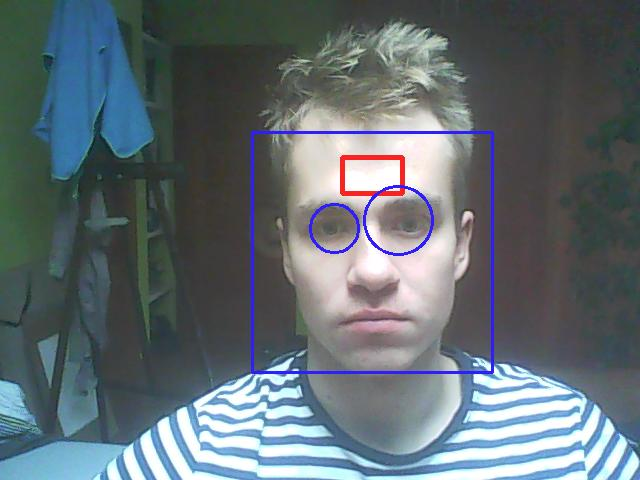
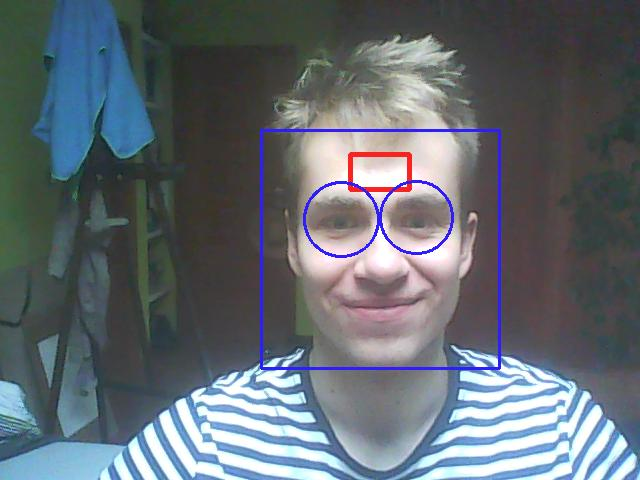
enhanced project description

Changed region(s): [[0.125, 0.0312, 1.0, 1.0], [0.0, 0.8438, 0.0625, 0.9062]]

diff --git a/projects/pavel/index.html b/projects/pavel/index.html
@@ -28,16 +28,41 @@
     <h2>Nápad</h2>
     <p>Hlavní myšlenka, je ta, že by se dala vytvořit aplikace v Pythonu (ideální technologie), která by pomocí webové kamery snímala frekvenci srdečního tepu, případně i frekvenci dýchání. Na taková data by se však dobře dala navázat nějaká interaktivní vizualizace. Dala by se vytvořit i nějaká velkoprostorová vizualizace (SAGE), protože snímat tep jde takto i z více lidí najednou, s jediným problémem snižené přesnosti měření.</p>
 	
-    <h2>Existující řešení</h2>
-    <p><a href="https://github.com/thearn/webcam-pulse-detector">webcam-pulse-detector</a>
+    <h2>Nápady na vizualizaci</h2>
+    <p>
+    V jakých rozmezí se můžou vstupní hodnoty pohybovat (za minutu):
+    <ul>
+        <li>Frekvence srdečního tepu: 60-90 (v klidu) a 90 - 160 (max 214) (při zátěži)</li>
+        <li>Rozsah srdečního tepu u atletů: 40-214</li>
+        <li>Dechová frekvence: 16-20 (v klidu)</li>
+    </ul>
+    
+    Cílem projektu je detekovat hlavně tepovou frekvenci a tu dechovou jen pokud to bude možné. Pro vizualizaci je tedy dobré očekávat jako vstup hlavně jednu hodnotu co se bude pravděpodobně pohybovat někdy mezi 60-160. Ideálně bude možné detekovat tepovou frekvenci více uživatelům najednou (pokud to rozumně půjde).
+    </p>  
+    
+    <p>
+    Jelikož jsou hodnoty celkem vysoké, tak by se dala vizualizace vytvořit v nějakém měřítku k tepu, nebo by se to muselo vymyslet tak aby nevypadala úplně jako stroboskop.
+    </p>   
+    
+    <h2>Existující řešení detekce tepu</h2>
+    <h3><a href="https://github.com/thearn/webcam-pulse-detector">webcam-pulse-detector</a> </h3>
+    <p>
     Níže je vidět toto řešení v běhu. V tu chvíli mi to ukazovalo srdeční puls celkem přesně. Porovnával jsem totiž hodnoty s fitness náramkem na ruce (ten není stoprocentně přesný ale minimálně orientačně ano). Je ale nutné říct, že hodnoty často skákali někam úplně jinam. Například tedy ze 70 hned na 50 a pak hned na 100. To však může být způsobeno nekvalitní kamerou a jejím šumem. 
-      
+    </p>
+    
+    <h3>Další řešení</h3>
+    <p>
+    Předchozí řešení je psané v Pythonu, což má své velké výhody. Nicméně existuje i <a href="https://github.com/serghov/heartRate">řešení</a> psané v JavaScriptu, jehož výhoda zpočívá ve snadném zpřístupnění na internetu. To ale nebylo vyzkoušeno.
+    </p>
+    
+    <p>
+    Jiné řešení co jsem našel na <a href="https://www.youtube.com/watch?v=IV51CYZsBOU">videu</a> je zajímavé tím, že využívá tváří jako čtecích ploch srdečního tepu. To řešní ale nebylo ozkoušeno.
     </p>
     
     <p>
         <img src="get_pulse.jpg"
             alt="Ukázka existujícího řešení"
-            style="max-width:100%">
+            style="max-width:50%">
     </p>
     
     <h2>Plán</h2>
@@ -45,14 +70,16 @@
     <ul>
         <li>1. Aplikace detekuje obličej</li>
         <li>2. Aplikace detekuje tepovou frekvenci</li>
-        <li>2b. (případně) Aplikace detekuje dechovou frekvenci</li>
+        <li>2b. Aplikace detekuje tepovou i při změně polohy uživatele</li>
+        <li>2c. Aplikace detekuje tepovou frekvenci více uživatelům najednou</li>
+        <li>2d. (případně) Aplikace detekuje dechovou frekvenci</li>
         <li>3.Vytvoření vizualizace vhodné pro vytvořená data</li>
         <li>4. Napojení vizualizace na detekční aplikaci</li>
     </ul>
   
     <h2>Rozpracování</h2>
     <p>
-    	Momentálně byla vytvořena aplikace detekující obličeje a oči(modře) a nacházející zónu měření (červeně)
+    	Momentálně byla vytvořena aplikace detekující obličeje a oči(modře) a nacházející zónu měření (červeně). Na obrázku je vidět příprava na plochu měření srdečního tepu, která je shodující s tou z existujícího měření. To lze měřit však ze všech dalších ploch větších ploch pokrytých pouze kůží (například tváří). 
     	</break>
     </p>
     <p>
